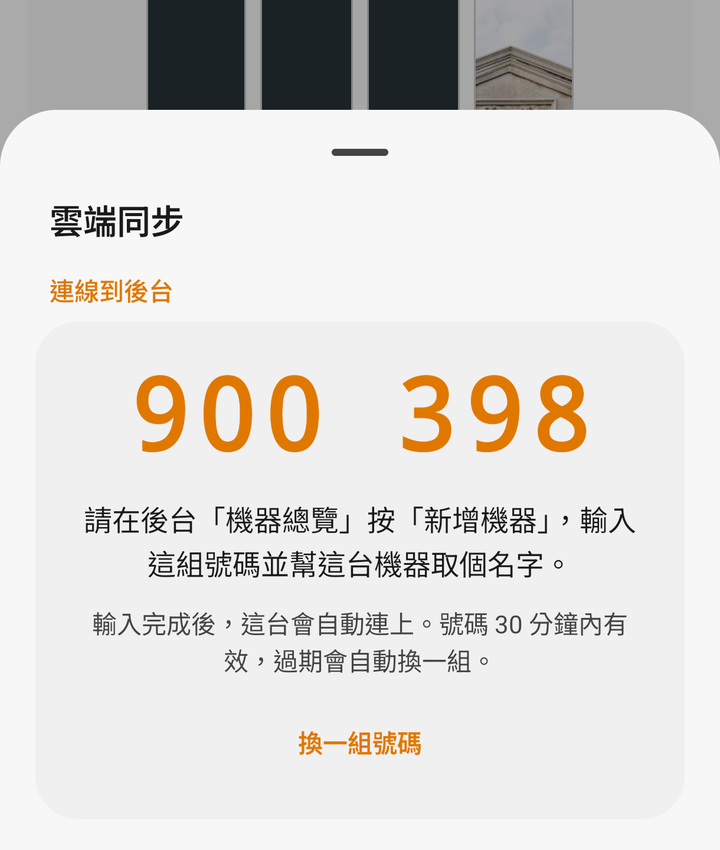
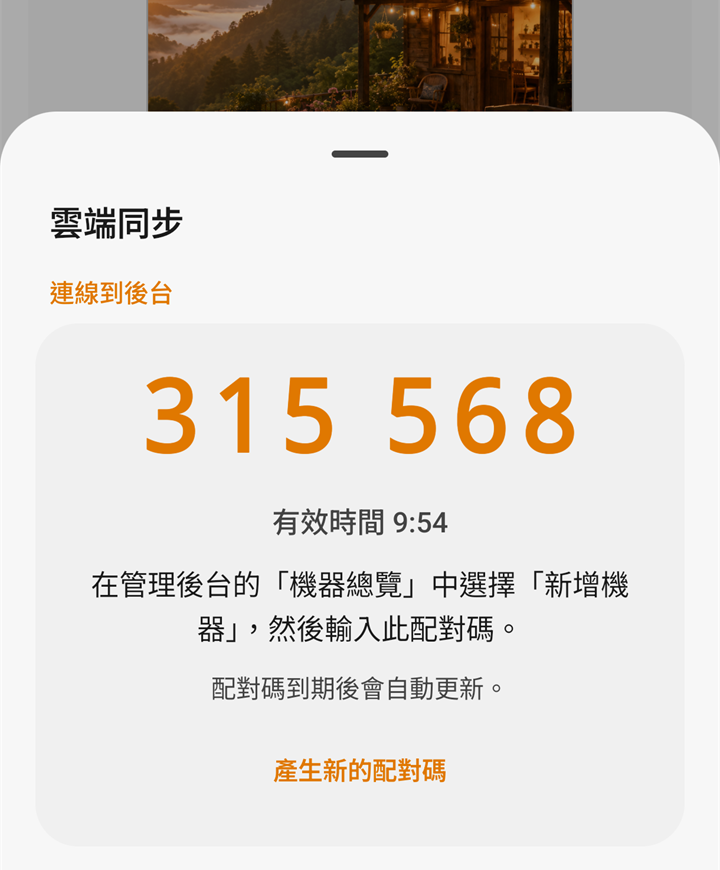
新增機器：同場域重新配對不另跳畫面，停在配對碼這一步以琥珀色提示「此機器已在清單中」、格子淡淡呼吸一次；使用說明手機配對截圖重拍（1.59）
- 跟打錯號碼同一個位置，但用偏黃的琥珀色（.pair-dlg 內補 light／dark 兩值）、不搖晃；沒改號碼再按下一步沿用提示
- 使用說明對應文字、kiosk-pairing.png（10 分鐘倒數版）
- tools/uitest/test-pair-ui.js：25 項（含琥珀色、呼吸一次、高度不變、清單不多一台）

diff --git a/public/app.js b/public/app.js
@@ -3814,7 +3814,8 @@ async function renderDevicesView() {
 // → 確認機型並取名 → 正在新增（轉圈，等機器真的連上）→ 已新增（打勾）→ 自己關、清單已經有這台而且在線。步驟之間有過場：
 // 舊內容往左淡出、新內容從右淡入、對話框高度跟著平順伸縮（user 2026-10-13：關掉就該是新增成功；處理中要有過場；
 // 配對碼要像驗證碼那樣一格一格；打滿不要自動查，按下一步才判斷；換步驟不要直接跳）。
-// 輸入的是已經在本場域的機器（它按了重新配對）：不給新增，改說「已在清單中」；連在別的場域的機器，取名時提醒會從那邊移除。
+// 輸入的是已經在本場域的機器（它按了重新配對）：不給新增，停在這一步說「已在清單中」——跟打錯號碼同一個位置，但用橘色、
+// 格子橘光呼吸兩下不搖晃（user 2026-10-14：不用另外跳一個畫面）；連在別的場域的機器，取名時提醒會從那邊移除。
 $('addDeviceBtn').addEventListener('click', async () => {
   if (await pairDialog()) renderDevicesView();
 });
@@ -3828,7 +3829,7 @@ function pairDialog() {
     // 機器目前連在別的場域（user 2026-10-13：要讓人知道這台已經在某個場域）：取名這一步先講清楚新增後會怎樣
     const nameDesc = (i) => (i.model ? `機型：${i.model}\n` : '') +
       (i.currentSite ? `此機器目前連線到「${i.currentSite}」，新增後將從該場域移除。\n` : '') + hint;
-    const existsDesc = (name) => `此機器已經以「${name}」連線到這個場域，不需要再次新增。`;
+    const existsDesc = (name) => `此機器已在清單中，名稱為「${name}」。`;
     const overlay = document.createElement('div');
     overlay.className = 'b-modal-overlay';
     overlay.setAttribute('data-modal-vue', ''); // 同 BDialog：別讓殼層 modal JS 接管
@@ -3853,6 +3854,8 @@ function pairDialog() {
     const otp = q('.otp'), nameInput = q('.pair-name'), foot = q('.b-alert-foot');
     const [cancelBtn, okBtn] = foot.querySelectorAll('button');
     let phase = 'code', code = '', info = null, added = false, closed = false, checking = false;
+    // 查到「已在清單中」的那組號碼：伺服器那邊這組已經作廢（機器也收起來了），沒改號碼再按下一步就直接再說一次，不再去查（不然變成「找不到」）
+    let knownExisting = null; // { code, message }
 
     // ---- 6 格配對碼：打一個跳下一格、退格回上一格、可整組貼上（「482 913」中間有空格也收）、打滿自動查 ----
     const boxes = [];
@@ -3869,10 +3872,24 @@ function pairDialog() {
       boxes.push(b);
     }
     const otpValue = () => boxes.map((b) => b.value).join('');
-    /** 一開始改號碼就把「找不到這組配對碼」的紅框與說明收回 */
+    /** 一開始改號碼就把「找不到這組配對碼」的紅框、「已在清單中」的橘框與說明收回 */
     function clearError() {
-      otp.classList.remove('is-error');
-      if (descEl.classList.contains('is-error')) { descEl.textContent = codeHint; descEl.classList.remove('is-error'); }
+      otp.classList.remove('is-error', 'is-exists');
+      if (descEl.classList.contains('is-error') || descEl.classList.contains('is-exists')) {
+        descEl.textContent = codeHint;
+        descEl.classList.remove('is-error', 'is-exists');
+      }
+    }
+    /** 號碼這一步的提示，停在原地：error＝紅字紅框搖晃（找不到）；exists＝橘字橘框、格子橘光呼吸兩下（這台已在清單中） */
+    function flagCode(kind, message) {
+      okBtn.textContent = '下一步';
+      okBtn.disabled = false;
+      descEl.textContent = message;
+      descEl.classList.remove('is-error', 'is-exists');
+      descEl.classList.add('is-' + kind);
+      otp.classList.remove('is-error', 'is-exists'); void otp.offsetWidth; otp.classList.add('is-' + kind); // 重播動畫
+      boxes.forEach((b) => { b.disabled = false; });
+      boxes[5].focus();
     }
     function fill(from, digits) {
       let i = from;
@@ -3929,15 +3946,16 @@ function pairDialog() {
       title.textContent = t;
       descEl.textContent = d;
       descEl.classList.toggle('is-error', next === 'error');
-      const ic = { busy: 'loader-circle', done: 'circle-check', slow: 'circle-check', exists: 'info' }[next];
+      descEl.classList.remove('is-exists');
+      const ic = { busy: 'loader-circle', done: 'circle-check', slow: 'circle-check' }[next];
       icon.hidden = !ic;
       icon.className = 'b-alert-icon pair-dlg-icon is-' + next;
       icon.innerHTML = ic ? `<i data-lucide="${ic}"${next === 'busy' ? ' class="b-spin"' : ''}></i>` : '';
       otp.hidden = next !== 'code';
       nameInput.hidden = !(next === 'name' || next === 'error');
       foot.hidden = next === 'busy' || next === 'done';
-      okBtn.textContent = next === 'code' ? '下一步' : next === 'slow' || next === 'exists' ? '知道了' : '新增';
-      cancelBtn.hidden = next === 'slow' || next === 'exists';
+      okBtn.textContent = next === 'code' ? '下一步' : next === 'slow' ? '知道了' : '新增';
+      cancelBtn.hidden = next === 'slow';
       okBtn.disabled = next === 'code' && otpValue().length !== 6;
       if (window.lucide) lucide.createIcons();
     }
@@ -3945,28 +3963,23 @@ function pairDialog() {
       if (checking || phase !== 'code') return;
       code = otpValue();
       if (code.length !== 6) return;
+      if (knownExisting && knownExisting.code === code) { flagCode('exists', knownExisting.message); return; }
       checking = true;
       boxes.forEach((b) => { b.disabled = true; });
       okBtn.disabled = true;
       okBtn.textContent = '確認中…';
       try {
         info = await api('GET', `/api/pair/code/${code}`);
-        // 這台本來就在本場域（機器按了重新配對、又輸入到同一個場域）：不新增第二台，機器那邊也已經收起配對碼
+        // 這台本來就在本場域（機器按了重新配對、又輸入到同一個場域）：不新增第二台，停在這一步說明（機器那邊也已經收起配對碼）
         if (info.existing) {
-          await transition(() => show('exists', '這台機器已在清單中', existsDesc(info.existing.name)));
-          okBtn.focus();
+          knownExisting = { code, message: existsDesc(info.existing.name) };
+          flagCode('exists', knownExisting.message);
           return;
         }
         await transition(() => show('name', '幫這台機器取個名字', nameDesc(info)));
         nameInput.focus();
       } catch (e) {
-        okBtn.textContent = '下一步';
-        okBtn.disabled = false;
-        descEl.textContent = e.message;
-        descEl.classList.add('is-error');
-        otp.classList.remove('is-error'); void otp.offsetWidth; otp.classList.add('is-error'); // 重播搖晃
-        boxes.forEach((b) => { b.disabled = false; });
-        boxes[5].focus();
+        flagCode('error', e.message);
       } finally {
         checking = false;
       }
@@ -3985,7 +3998,6 @@ function pairDialog() {
     async function submit() {
       if (phase === 'code') return lookup();
       if (phase === 'slow') return close(true);
-      if (phase === 'exists') return close(false);
       const name = nameInput.value.trim();
       if (!name) { show('name', '幫這台機器取個名字', '請幫這台機器取個名字。\n' + hint); nameInput.focus(); return; }
       await transition(() => show('busy', '正在新增', '正在連線到機器，請稍候…'));
@@ -4008,7 +4020,7 @@ function pairDialog() {
         await transition(() => show('slow', `已新增「${res.deviceName}」`, '機器還沒連上。請確認機器開著而且有網路，連上後清單會顯示「在線」。'));
       }
     }
-    const canDismiss = () => phase === 'code' || phase === 'name' || phase === 'error' || phase === 'exists';
+    const canDismiss = () => phase === 'code' || phase === 'name' || phase === 'error';
     function onKey(e) {
       if (e.key === 'Escape') {
         e.preventDefault(); e.stopPropagation();
@@ -4040,7 +4052,7 @@ function pairDialog() {
       let h = 0;
       const measure = () => { h = Math.max(h, modal.offsetHeight); };
       show('name', '幫這台機器取個名字', nameDesc({ model: '—', currentSite: '揚昇高爾夫球場' })); measure();
-      show('exists', '這台機器已在清單中', existsDesc('一樓大廳展示機')); measure();
+      show('code', '新增機器', existsDesc('一樓大廳展示機')); measure(); // 號碼這一步說明變兩行（已在清單中）也不長高
       show('busy', '正在新增', '正在連線到機器，請稍候…'); measure();
       show('slow', '已新增「一樓大廳」', '機器還沒連上。請確認機器開著而且有網路，連上後清單會顯示「在線」。'); measure();
       show('code', '新增機器', codeHint); measure();

diff --git a/tools/uitest/test-pair-ui.js b/tools/uitest/test-pair-ui.js
@@ -2,7 +2,8 @@
    可整組貼上「482 913」）→ 顯示機型、取名 → 新增 → 原地「正在新增」（轉圈）→ 機器連上後「已新增」（打勾）→ 自己關 →
    清單已經有這台而且在線 → 金鑰是配對發的專屬金鑰。
    CODE 不給＝自己用 API 開一組假的配對（只驗後台畫面；沒有真機器連上，最後會停在「機器還沒連上」）。
-   模擬機器時再多驗兩種（2026-10-13）：這台按「重新配對」又輸入到同一個場域 →「這台機器已在清單中」、機器收到 already；
+   模擬機器時再多驗兩種（2026-10-13）：這台按「重新配對」又輸入到同一個場域 → 停在號碼這一步、琥珀字「此機器已在清單中」、
+   格子琥珀框淡淡亮一次不搖晃（2026-10-14 改，原本是另一個畫面），機器收到 already；
    機器連在別的場域 → 取名那一步提醒「新增後將從該場域移除」。每一步對話框高度都不變。
    用法：BASE=http://localhost:3177 CODE=016849 NAME=測試手機（配對） node test-pair-ui.js */
 const puppeteer = require('puppeteer-core');
@@ -178,23 +179,51 @@ async function enterCode(page, code, title) {
 
   if (sim.deviceKey) {
     // 這台按「重新配對」，又輸入到同一個場域（機器帶目前的編號＋金鑰）
+    await page.emulateMediaFeatures([{ name: 'prefers-reduced-motion', value: 'no-preference' }]); // 無頭 Chrome 預設減少動態，要看呼吸光
+    const H = { Authorization: 'Bearer ' + (await page.evaluate(() => sessionStorage.getItem('token'))) };
+    const countDevices = async () => (await (await fetch(BASE + '/api/devices', { headers: H })).json()).length;
+    const before = await countDevices();
     const r2 = await startPair({ current: sim.deviceId }, sim.deviceKey);
     const waited = fetch(`${BASE}/api/pair/${r2.pairId}/wait`).then((x) => x.json()).catch(() => null);
-    const h0 = await enterCode(page, r2.code, '這台機器已在清單中');
+    await page.click('#addDeviceBtn');
+    await page.waitForSelector(DLG, { timeout: 5000 });
+    await sleep(300);
+    const h0 = await dlgHeight(page);
+    await page.keyboard.type(r2.code);
+    await page.click(`${DLG} .b-alert-foot button:last-child`);
+    await page.waitForFunction(() => document.querySelector('.pair-dlg .b-alert-desc')?.classList.contains('is-exists'), { timeout: 5000 }).catch(() => {});
+    await sleep(1000); // 呼吸光最亮的時候拍（2 秒呼吸一次，約 1 秒最亮）
+    await page.screenshot({ path: path.join(OUT, '7-exists.png') });
     s = await state(page);
     const h1 = await dlgHeight(page);
-    const cancelHidden = await page.$eval(`${DLG} .b-alert-foot button:first-child`, (b) => b.hidden);
-    await page.screenshot({ path: path.join(OUT, '7-exists.png') });
-    check('同一場域再輸入一次：顯示「已在清單中」與清單上的名稱，只有「知道了」',
-      s.title === '這台機器已在清單中' && s.desc.includes(`「${NAME}」`) && !s.nameShown && !s.otpShown && s.ok === '知道了' && cancelHidden, JSON.stringify(s));
-    check('「已在清單中」對話框高度跟輸入配對碼時一樣', h0 === h1, `${h0} → ${h1}`);
+    const look = await page.$eval(DLG, (m) => {
+      const box = getComputedStyle(m.querySelector('.otp-box'));
+      return {
+        descColor: getComputedStyle(m.querySelector('.b-alert-desc')).color, border: box.borderTopColor,
+        anim: box.animationName, times: box.animationIterationCount, otpExists: m.querySelector('.otp').classList.contains('is-exists'),
+        cancelShown: !m.querySelector('.b-alert-foot button:first-child').hidden,
+      };
+    });
+    check('同一場域再輸入一次：停在號碼這一步，說明改成「已在清單中」與清單上的名稱',
+      s.title === '新增機器' && s.otpShown && !s.nameShown && s.desc.includes('已在清單中') && s.desc.includes(`「${NAME}」`) && s.ok === '下一步' && look.cancelShown, JSON.stringify(s));
+    check('琥珀字、琥珀框、格子淡淡亮一次、不搖晃（不是紅色錯誤）',
+      look.otpExists && !s.otpError && !s.descError && look.descColor === 'rgb(199, 124, 0)' && look.border === 'rgb(245, 160, 15)' && look.anim === 'otp-breathe' && look.times === '1', JSON.stringify(look));
+    check('對話框高度不變', h0 === h1, `${h0} → ${h1}`);
     const w2 = await waited;
     check('機器那邊收到「已經在這裡」（already）', w2 && w2.status === 'already', JSON.stringify(w2));
-    await page.click(`${DLG} .b-alert-foot button:last-child`);
+    await sleep(1500);
+    await page.click(`${DLG} .b-alert-foot button:last-child`); // 沒改號碼再按一次下一步
+    await sleep(400);
+    s = await state(page);
+    check('沒改號碼再按下一步：還是「已在清單中」（不會變成找不到）', s.desc.includes('已在清單中') && !s.descError, s.desc);
+    await page.keyboard.press('Backspace');
+    s = await state(page);
+    check('改號碼時橘色說明收回', !s.desc.includes('已在清單中') && /6 位數配對碼/.test(s.desc), s.desc);
+    await page.click(`${DLG} .b-alert-foot button:first-child`); // 取消
     await page.waitForFunction(() => !document.querySelector('.pair-dlg'), { timeout: 3000 }).catch(() => {});
-    const H = { Authorization: 'Bearer ' + (await page.evaluate(() => sessionStorage.getItem('token'))) };
-    const same = (await (await fetch(BASE + '/api/devices', { headers: H })).json()).filter((x) => x.DeviceId.startsWith(sim.deviceId));
-    check('清單沒有多一台', same.length === 1, same.map((x) => x.DeviceId).join(','));
+    await sleep(300);
+    const after = await countDevices();
+    check('清單沒有多一台', after === before, `${before} → ${after}`);
 
     // 機器連在別的場域：取名時提醒
     const r3 = await startPair({ currentSite: '揚昇高爾夫球場' });

diff --git a/public/style.css b/public/style.css
@@ -1464,11 +1464,16 @@ input[type=checkbox].b-switch:focus-visible { outline: none; box-shadow: 0 0 0 4
 .header-right a.header-play-link:hover { text-decoration: none; }
 
 /* 新增機器第二步（2026-10-13 配對碼）：正在新增＝主題色轉圈、已新增＝綠勾；錯誤說明紅字 */
-.pair-dlg-icon.is-busy, .pair-dlg-icon.is-exists { color: var(--fg-brand); } /* 已在清單中＝主題色資訊圖示（不是錯誤） */
+.pair-dlg-icon.is-busy { color: var(--fg-brand); }
 .pair-dlg-icon.is-done, .pair-dlg-icon.is-slow { color: var(--fg-success); }
 .pair-dlg-icon.is-done :where(.lucide, svg), .pair-dlg-icon.is-slow :where(.lucide, svg) { animation: pair-pop .32s cubic-bezier(.22, 1, .36, 1); }
 @keyframes pair-pop { from { opacity: 0; transform: scale(.6); } to { opacity: 1; transform: scale(1); } }
 .pair-dlg .b-alert-desc.is-error { color: var(--fg-danger); }
+/* 這台已在清單中（2026-10-14 user）：跟打錯號碼同一個位置，但用偏黃的琥珀橘（不是錯誤，是提醒；kit 的 warning 橘太偏紅）。
+   kit 沒有這個色，在對話框範圍內補 light／dark 兩值：框線＋光暈用 --pair-amber，說明字用稍深的 --pair-amber-text（白底才讀得清楚） */
+.pair-dlg { --pair-amber: #F5A00F; --pair-amber-text: #C77C00; }
+:root[data-color-mode="dark"] .pair-dlg { --pair-amber: #F5B031; --pair-amber-text: #F7BE4F; }
+.pair-dlg .b-alert-desc.is-exists { color: var(--pair-amber-text); }
 /* 配對碼 6 格（像驗證碼）：前三後三中間多空一點，對得上機器畫面上的「482 913」；外觀沿用 .b-input 的底色、邊框與聚焦 */
 .pair-dlg .otp { display: flex; justify-content: center; gap: 6px; margin-top: 14px; }
 /* 對話框裡各段（圖示、6 格、名稱框、按鈕列、取消鈕）用 hidden 切換；kit 的 .b-input／.b-alert-foot 有寫 display，要蓋過去 */
@@ -1490,3 +1495,12 @@ input[type=checkbox].b-switch:focus-visible { outline: none; box-shadow: 0 0 0 4
 .pair-dlg .otp.is-error .otp-box { border-color: var(--border-danger); }
 .pair-dlg .otp.is-error { animation: otp-shake .36s ease; }
 @keyframes otp-shake { 0%, 100% { transform: none; } 20% { transform: translateX(-6px); } 40% { transform: translateX(6px); } 60% { transform: translateX(-4px); } 80% { transform: translateX(3px); } }
+/* 已在清單中：琥珀框、格子淡淡的光慢慢亮起再慢慢退（呼吸一次），不搖晃（user 2026-10-14：含蓄、優雅一點，慢、淡，
+   不要一按就亮）；框線也慢慢轉成琥珀色。減少動態效果時只留琥珀框 */
+.pair-dlg .otp.is-exists .otp-box { border-color: var(--pair-amber); transition: border-color .6s ease; animation: otp-breathe 2s ease-in-out 1; }
+.pair-dlg .otp.is-exists .otp-box:focus { box-shadow: 0 0 0 1px var(--pair-amber); }
+@keyframes otp-breathe {
+  0%, 100% { box-shadow: 0 0 0 0 color-mix(in srgb, var(--pair-amber) 0%, transparent); }
+  50% { box-shadow: 0 0 0 4px color-mix(in srgb, var(--pair-amber) 14%, transparent); }
+}
+@media (prefers-reduced-motion: reduce) { .pair-dlg .otp.is-exists .otp-box { animation: none; } }

diff --git a/public/index.html b/public/index.html
@@ -516,7 +516,7 @@
               <p class="gd-lead">後台是展示機的遠端控制中心。把機器連上來之後，版面與設定都在這裡改，按「儲存並發布」機器就會立即更新。螢幕有兩種接法：裝了 App 的 Android 展示機，或用瀏覽器開的網頁螢幕（見<span class="gd-ui">網頁螢幕</span>一章）。</p>
               <ol class="gd-steps">
                 <li>到機器上打開 App 管理頁，按右上角的連線圖示（橘色＝還沒連線），畫面會出現 6 位數配對碼和倒數時間，10 分鐘內有效。</li>
-                <li>回到後台的<span class="gd-ui">機器總覽</span>按<span class="gd-ui">新增機器</span>，在 6 個格子輸入配對碼（打滿會自動往下），再幫機器取個名字。在哪個場域的後台輸入，機器就連到哪個場域；原本連在別的場域的機器，會自動從那邊移除。已經在這個場域的機器，會顯示「這台機器已在清單中」，不會重複新增。</li>
+                <li>回到後台的<span class="gd-ui">機器總覽</span>按<span class="gd-ui">新增機器</span>，在 6 個格子輸入配對碼（打滿會自動往下），再幫機器取個名字。在哪個場域的後台輸入，機器就連到哪個場域；原本連在別的場域的機器，會自動從那邊移除。已經在這個場域的機器，按下一步會以橘字提示「此機器已在清單中」，不會重複新增。</li>
                 <li>對話框顯示「已新增」就完成了，機器已經連上、出現在<span class="gd-ui">機器總覽</span>，連線圖示變成綠色。不用在機器上打位址或金鑰。</li>
                 <li>點該列的<span class="gd-ui">內容管理</span>進入工作區編排版面，按<span class="gd-ui">儲存並發布</span>。</li>
               </ol>
